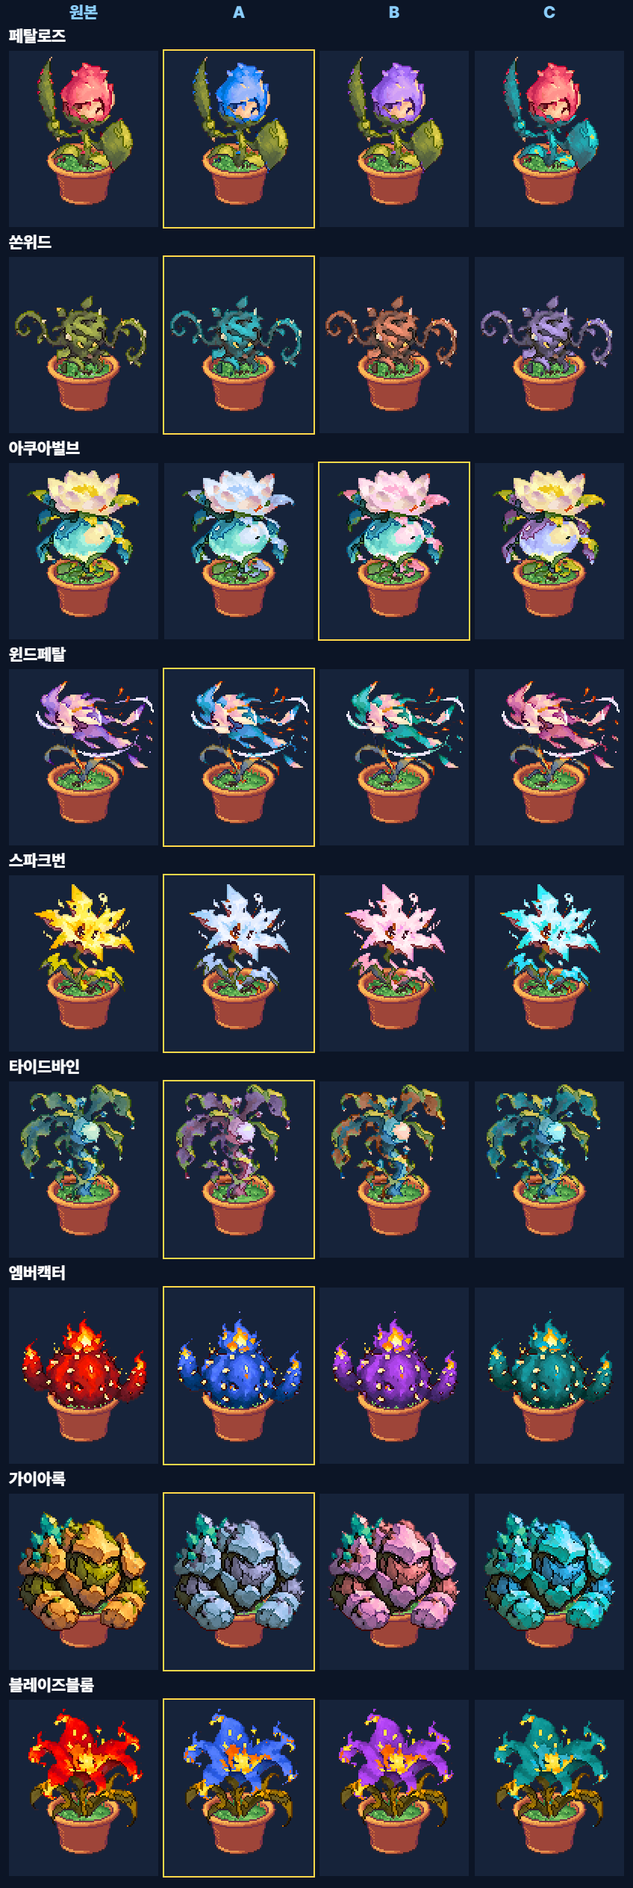
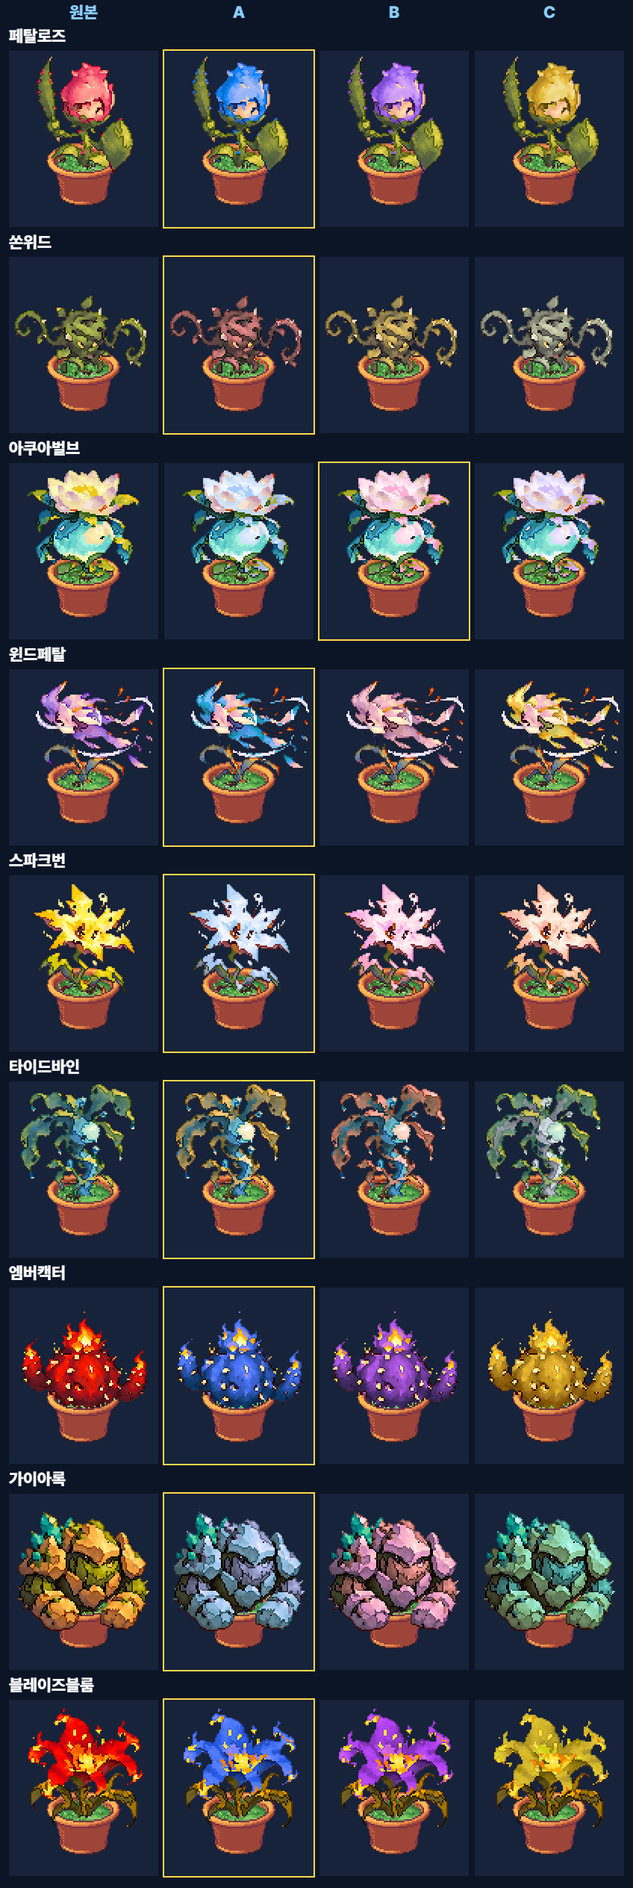
feat: 색 변종 후보를 자연스러운 색으로 다시 — 잎은 자연에 있는 색만, 쨍한 몸 전체 바꿈 줄임
- 잎 · 줄기 = 단풍 금빛 · 호박색 · 붉은 덩굴 · 짙은 초록 · 서리 은빛만(청록 · 보라 잎 금지)
- 꽃 · 갓 · 불꽃 · 옷 · 도자기 · 바위처럼 자연스러운 부분 위주 · 몸 전체는 채도 낮춤
- 색 범위를 한 색 가까이로 모으는 hs 추가 · 서른다섯 종 후보와 추천 다시

diff --git a/v2/src/art/shinyRules.js b/v2/src/art/shinyRules.js
@@ -2,49 +2,49 @@
 //  띠 = { h: [색상 범위°], to: 띠 가운데가 갈 색상°, ck: 채도 배수 } · 흰 몸 = { tint: [색상°, 채도], l: [밝기 범위], c: 최대 채도 } — 뜻은 v2/src/art/shinyColor.js
 //  검토판 = ?scene=shinylab&page=0~4(촬영 99_shiny_0~4) · 생장 단계(어린 · 자람)도 같은 규칙
 export const SHINY_RULES = {
-  flower_grass: { pick: 'A', A: [{ h: [5,35], to: 262, ck: 1 }], B: [{ h: [5,35], to: 305, ck: 1 }], C: [{ h: [72,172], to: 212, ck: 0.9, l: [0.24,0.86] }] },   // 잎 95~135° 57% · 특징 5~35° 36%
-  thorn: { pick: 'A', A: [{ h: [72,172], to: 212, ck: 0.9, l: [0.24,0.86] }], B: [{ h: [72,172], to: 47, ck: 1, l: [0.24,0.86] }], C: [{ h: [72,172], to: 307, ck: 0.85, l: [0.24,0.86] }] },   // 잎 105~125° 66% · 잎 95~115° 8%
-  aqua: { pick: 'B', A: [{ h: [75,115], to: 255, ck: 0.45 }], B: [{ h: [75,115], to: 350, ck: 0.9 }], C: [{ h: [165,255], to: 300, ck: 1.1 }] },   // 특징 75~115° 40% · 잎 125~145° 11% · 손 규칙 C
-  flower_wind: { pick: 'A', A: [{ h: [275,340], to: 235 }], B: [{ h: [285,335], to: 190, ck: 1 }], C: [{ h: [285,335], to: 355, ck: 1 }] },   // 특징 285~335° 40% · 특징 345~25° 14% · 손 규칙 A
-  spark: { pick: 'A', A: [{ h: [75,115], to: 255, ck: 0.45 }], B: [{ h: [75,115], to: 350, ck: 0.9 }], C: [{ h: [75,115], to: 205, ck: 0.9 }] },   // 특징 75~115° 70%
-  vine_water: { pick: 'A', A: [{ h: [140,182], to: 300, ck: 1.4 }, { h: [195,265], to: 340 }], B: [{ h: [140,182], to: 45, ck: 1.6 }], C: [{ h: [140,182], to: 205, ck: 1.6 }] },   // 잎 155~175° 30% · 특징 205~265° 30% · 손 규칙 ABC
-  cactus_fire: { pick: 'A', A: [{ h: [5,45], to: 262, ck: 1 }], B: [{ h: [5,45], to: 305, ck: 1 }], C: [{ h: [0,50], to: 195 }] },   // 특징 5~45° 85% · 손 규칙 C
-  gaia: { pick: 'A', A: [{ h: [35,115], to: 255, ck: 0.45 }], B: [{ h: [35,115], to: 350, ck: 0.9 }], C: [{ h: [35,115], to: 205, ck: 0.9 }] },   // 특징 35~115° 90%
-  flower_fire: { pick: 'A', A: [{ h: [15,35], to: 262, ck: 1 }], B: [{ h: [15,35], to: 305, ck: 1 }], C: [{ h: [0,60], to: 195 }] },   // 특징 15~35° 54% · 특징 25~105° 44% · 손 규칙 C
-  cactus_wind: { pick: 'A', A: [{ h: [85,125], to: 205, ck: 0.9 }], B: [{ h: [85,125], to: 40, ck: 1 }], C: [{ h: [85,125], to: 300, ck: 0.85 }] },   // 특징 85~125° 51%
-  vine_wind: { pick: 'B', A: [{ h: [295,325], to: 88, ck: 1 }, { tint: [88,0.06], l: [0.5,0.97], c: 0.05 }], B: [{ h: [295,325], to: 190, ck: 1 }, { tint: [190,0.06], l: [0.5,0.97], c: 0.05 }], C: [{ h: [295,325], to: 355, ck: 1 }, { tint: [355,0.06], l: [0.5,0.97], c: 0.05 }] },   // 특징 295~325° 42% · 흰 몸 40%
-  spore_cap: { pick: 'A', A: [{ h: [5,115], to: 300, ck: 0.9 }], B: [{ h: [5,115], to: 235, ck: 0.9 }], C: [{ h: [5,115], to: 355, ck: 1 }] },   // 특징 5~115° 97%
+  flower_grass: { pick: 'A', A: [{ h: [5,35], to: 262, ck: 1 }], B: [{ h: [5,35], to: 305, ck: 1 }], C: [{ h: [0,40], to: 92, dl: 0.1, ck: 0.9 }] },   // 잎 95~135° 57% · 특징 5~35° 36% · 손 규칙 C
+  thorn: { pick: 'A', A: [{ h: [70,175], to: 25, hs: 0.4, l: [0.24,0.9], ck: 0.85, dl: -0.04 }], B: [{ h: [70,175], to: 92, hs: 0.4, l: [0.24,0.9], dl: 0.06, ck: 0.9 }], C: [{ h: [70,175], to: 122, hs: 1, l: [0.24,0.9], ck: 0.35, dl: 0.08 }] },   // 잎 105~125° 66% · 잎 95~115° 8% · 손 규칙 ABC
+  aqua: { pick: 'B', A: [{ h: [75,115], to: 255, ck: 0.45, l: [0.75,1.01] }], B: [{ h: [75,115], to: 350, ck: 0.9, l: [0.75,1.01] }], C: [{ h: [75,115], to: 300, ck: 0.8, l: [0.75,1.01] }] },   // 특징 75~115° 40% · 잎 125~145° 11% · 손 규칙 ABC
+  flower_wind: { pick: 'A', A: [{ h: [275,340], to: 235 }], B: [{ h: [275,340], to: 350, ck: 0.55, dl: 0.08 }], C: [{ h: [275,340], to: 90, dl: 0.17 }] },   // 특징 285~335° 40% · 특징 345~25° 14% · 손 규칙 ABC
+  spark: { pick: 'A', A: [{ h: [75,115], to: 255, ck: 0.45, l: [0.6,1.01] }], B: [{ h: [75,115], to: 350, ck: 0.9, l: [0.6,1.01] }], C: [{ h: [75,115], to: 48, l: [0.6,1.01] }] },   // 특징 75~115° 70% · 손 규칙 ABC
+  vine_water: { pick: 'A', A: [{ h: [95,182], to: 88, hs: 0.3, dl: 0.04 }], B: [{ h: [95,182], to: 40, hs: 0.3 }], C: [{ h: [195,265], to: 250, ck: 0.2, dl: 0.15 }] },   // 잎 155~175° 30% · 특징 205~265° 30% · 손 규칙 ABC
+  cactus_fire: { pick: 'A', A: [{ h: [0,50], to: 262, ck: 0.85 }], B: [{ h: [0,50], to: 305, ck: 0.85 }], C: [{ h: [0,50], to: 80, dl: 0.17 }] },   // 특징 5~45° 85% · 손 규칙 ABC
+  gaia: { pick: 'A', A: [{ h: [35,115], to: 250, ck: 0.45 }], B: [{ h: [35,115], to: 355, ck: 0.7 }], C: [{ h: [35,115], to: 160, ck: 0.6 }] },   // 특징 35~115° 90% · 손 규칙 ABC
+  flower_fire: { pick: 'A', A: [{ h: [5,45], to: 262 }], B: [{ h: [5,45], to: 305 }], C: [{ h: [5,45], to: 92, dl: 0.17 }] },   // 특징 15~35° 54% · 특징 25~105° 44% · 손 규칙 ABC
+  cactus_wind: { pick: 'B', A: [{ h: [70,175], to: 168, hs: 0.4, l: [0.24,0.9], ck: 0.7 }], B: [{ h: [70,175], to: 88, hs: 0.4, l: [0.24,0.9], dl: 0.06 }], C: [{ h: [70,175], to: 330, hs: 0.4, l: [0.24,0.9], ck: 0.55 }] },   // 특징 85~125° 51% · 손 규칙 ABC
+  vine_wind: { pick: 'A', A: [{ h: [295,325], to: 88, ck: 1 }, { tint: [88,0.06], l: [0.5,0.97], c: 0.05 }], B: [{ h: [275,335], to: 250, ck: 0.2, dl: 0.08 }], C: [{ h: [295,325], to: 355, ck: 1 }, { tint: [355,0.06], l: [0.5,0.97], c: 0.05 }] },   // 특징 295~325° 42% · 흰 몸 40% · 손 규칙 B
+  spore_cap: { pick: 'A', A: [{ h: [5,115], to: 300, ck: 0.9 }], B: [{ h: [5,115], to: 240, ck: 0.85 }], C: [{ h: [5,115], to: 20 }] },   // 특징 5~115° 97% · 손 규칙 BC
   frost_bell: { pick: 'A', A: [{ h: [235,265], to: 345, ck: 1 }, { tint: [345,0.06], l: [0.5,0.97], c: 0.05 }], B: [{ h: [235,265], to: 88, ck: 1 }, { tint: [88,0.06], l: [0.5,0.97], c: 0.05 }], C: [{ h: [235,265], to: 150, ck: 1 }, { tint: [150,0.06], l: [0.5,0.97], c: 0.05 }] },   // 특징 235~265° 24% · 특징 255~275° 2% · 흰 몸 72%
-  volt_vine: { pick: 'A', A: [{ h: [145,192], to: 295 }], B: [{ h: [85,140], to: 205, l: [0.68,1.01] }], C: [{ h: [145,192], to: 20, ck: 1.3 }] },   // 특징 155~185° 37% · 특징 85~145° 38% · 손 규칙 ABC
-  stone_cap: { pick: 'A', A: [{ h: [35,115], to: 255, ck: 0.45 }], B: [{ h: [35,115], to: 350, ck: 0.9 }], C: [{ h: [35,115], to: 205, ck: 0.9 }] },   // 특징 35~115° 77%
+  volt_vine: { pick: 'B', A: [{ h: [145,192], to: 48, hs: 0.5 }], B: [{ h: [85,140], to: 205, l: [0.68,1.01] }], C: [{ h: [145,192], to: 20 }] },   // 특징 155~185° 37% · 특징 85~145° 38% · 손 규칙 ABC
+  stone_cap: { pick: 'A', A: [{ h: [35,115], to: 255, ck: 0.45 }], B: [{ h: [35,115], to: 350, ck: 0.9 }], C: [{ h: [35,115], to: 30 }] },   // 특징 35~115° 77% · 손 규칙 C
   jelly_cap: { pick: 'A', A: [{ h: [235,255], to: 345, ck: 1 }, { tint: [345,0.06], l: [0.5,0.97], c: 0.05 }], B: [{ h: [235,255], to: 88, ck: 1 }, { tint: [88,0.06], l: [0.5,0.97], c: 0.05 }], C: [{ h: [235,255], to: 150, ck: 1 }, { tint: [150,0.06], l: [0.5,0.97], c: 0.05 }] },   // 특징 235~255° 16% · 특징 255~285° 25% · 흰 몸 39%
-  fang_trap: { pick: 'A', A: [{ h: [72,172], to: 217, ck: 0.9, l: [0.24,0.86] }], B: [{ h: [72,172], to: 52, ck: 1, l: [0.24,0.86] }], C: [{ h: [72,172], to: 312, ck: 0.85, l: [0.24,0.86] }] },   // 잎 85~135° 77% · 특징 15~35° 12%
-  blade_vine: { pick: 'A', A: [{ h: [15,115], to: 300, ck: 0.9 }], B: [{ h: [15,115], to: 235, ck: 0.9 }], C: [{ h: [15,115], to: 355, ck: 1 }] },   // 특징 15~115° 71%
-  toxi_cactus: { pick: 'A', A: [{ h: [72,172], to: 207, ck: 0.9, l: [0.24,0.86] }], B: [{ h: [72,172], to: 42, ck: 1, l: [0.24,0.86] }], C: [{ h: [72,172], to: 302, ck: 0.85, l: [0.24,0.86] }] },   // 잎 95~145° 46% · 특징 315~335° 8%
+  fang_trap: { pick: 'A', A: [{ h: [70,140], to: 20, hs: 0.5, ck: 0.9 }], B: [{ h: [70,140], to: 340, hs: 0.5, ck: 0.6, dl: -0.03 }], C: [{ h: [70,140], to: 128, hs: 0.5 }] },   // 잎 85~135° 77% · 특징 15~35° 12% · 손 규칙 ABC
+  blade_vine: { pick: 'A', A: [{ h: [10,120], to: 250, ck: 0.8 }], B: [{ h: [10,120], to: 250, ck: 0.15, dl: 0.08 }], C: [{ h: [10,120], to: 300, ck: 0.8 }] },   // 특징 15~115° 71% · 손 규칙 ABC
+  toxi_cactus: { pick: 'A', A: [{ h: [300,345], to: 92, dl: 0.08 }], B: [{ h: [300,345], to: 0, ck: 0.2, dl: 0.15 }], C: [{ h: [80,160], to: 168, hs: 0.5, ck: 0.7 }] },   // 잎 95~145° 46% · 특징 315~335° 8% · 손 규칙 ABC
   draco_fruit: { pick: 'A', A: [{ h: [195,235], to: 345, ck: 1 }, { tint: [345,0.06], l: [0.5,0.97], c: 0.05 }], B: [{ h: [170,240], to: 290 }, { tint: [290,0.06], l: [0.5,0.97], c: 0.05 }], C: [{ h: [170,240], to: 150 }, { tint: [150,0.05], l: [0.5,0.97], c: 0.05 }] },   // 특징 195~235° 36% · 특징 175~195° 9% · 흰 몸 47% · 손 규칙 BC
   ember_cap: { pick: 'A', A: [{ h: [15,55], to: 262, ck: 1 }], B: [{ h: [15,55], to: 305, ck: 1 }], C: [{ h: [15,55], to: 88, ck: 1 }] },   // 특징 15~55° 57% · 특징 45~115° 41%
   drake_cactus: { pick: 'A', A: [{ h: [15,55], to: 262, ck: 1 }], B: [{ h: [15,55], to: 305, ck: 1 }], C: [{ h: [5,60], to: 160 }] },   // 특징 15~55° 80% · 손 규칙 C
   gat_cap: { pick: 'A', A: [{ tint: [25,0.12], l: [0.24,0.52], c: 0.05 }], B: [{ tint: [258,0.12], l: [0.24,0.52], c: 0.05 }], C: [{ tint: [305,0.12], l: [0.24,0.52], c: 0.05 }] },   // 특징 45~95° 26% · 잎 85~125° 12% · 손 규칙 ABC
-  mask_vine: { pick: 'A', A: [{ h: [55,105], to: 255, ck: 0.45 }], B: [{ h: [55,105], to: 350, ck: 0.9 }], C: [{ h: [55,105], to: 205, ck: 0.9 }] },   // 특징 55~105° 79%
-  drum_cactus: { pick: 'A', A: [{ h: [55,115], to: 255, ck: 0.45 }], B: [{ h: [55,115], to: 350, ck: 0.9 }], C: [{ h: [72,172], to: 192, ck: 0.9, l: [0.24,0.86] }] },   // 특징 55~115° 41% · 잎 115~155° 24%
+  mask_vine: { pick: 'B', A: [{ h: [50,110], to: 80, ck: 0.25, dl: -0.06 }], B: [{ h: [50,110], to: 25, ck: 0.9 }], C: [{ h: [50,110], to: 92, dl: 0.06 }] },   // 특징 55~105° 79% · 손 규칙 ABC
+  drum_cactus: { pick: 'A', A: [{ h: [55,115], to: 25, l: [0.55,1.01] }], B: [{ h: [55,115], to: 250, ck: 0.2, dl: 0.1, l: [0.55,1.01] }], C: [{ h: [55,115], to: 205, ck: 0.8, l: [0.55,1.01] }] },   // 특징 55~115° 41% · 잎 115~155° 24% · 손 규칙 ABC
   lantern_vine: { pick: 'A', A: [{ h: [255,275], to: 345, ck: 1 }, { tint: [345,0.06], l: [0.5,0.97], c: 0.05 }], B: [{ h: [255,275], to: 88, ck: 1 }, { tint: [88,0.06], l: [0.5,0.97], c: 0.05 }], C: [{ h: [255,275], to: 150, ck: 1 }, { tint: [150,0.06], l: [0.5,0.97], c: 0.05 }] },   // 특징 255~275° 42% · 특징 5~35° 12% · 흰 몸 38%
-  jar_cactus: { pick: 'B', A: [{ h: [150,230], to: 25, ck: 1.7 }], B: [{ h: [150,230], to: 220, ck: 0.25, dl: 0.25 }], C: [{ h: [150,230], to: 300, ck: 1.6 }] },   // 특징 35~65° 17% · 특징 195~235° 26% · 손 규칙 ABC
-  goblin_cap: { pick: 'A', A: [{ h: [25,105], to: 300, ck: 0.9 }], B: [{ h: [25,105], to: 235, ck: 0.9 }], C: [{ h: [25,105], to: 355, ck: 1 }] },   // 특징 25~105° 97%
+  jar_cactus: { pick: 'B', A: [{ h: [150,230], to: 25, ck: 1.4 }], B: [{ h: [150,230], to: 220, ck: 0.25, dl: 0.25 }], C: [{ h: [150,230], to: 300, ck: 1.3 }] },   // 특징 35~65° 17% · 특징 195~235° 26% · 손 규칙 ABC
+  goblin_cap: { pick: 'B', A: [{ h: [25,105], to: 300, ck: 0.9 }], B: [{ h: [25,105], to: 25 }], C: [{ h: [25,105], to: 65, ck: 0.25, dl: 0.08 }] },   // 특징 25~105° 97% · 손 규칙 BC
   crown_cap: { pick: 'A', A: [{ h: [255,295], to: 88, ck: 1 }, { tint: [88,0.06], l: [0.5,0.97], c: 0.05 }], B: [{ h: [255,295], to: 190, ck: 1 }, { tint: [190,0.06], l: [0.5,0.97], c: 0.05 }], C: [{ h: [255,295], to: 355, ck: 1 }, { tint: [355,0.06], l: [0.5,0.97], c: 0.05 }] },   // 특징 255~295° 39% · 흰 몸 58%
   frost_drake: { pick: 'A', A: [{ h: [195,265], to: 345, ck: 1 }], B: [{ h: [165,260], to: 300 }], C: [{ h: [195,265], to: 150, ck: 1 }] },   // 특징 195~265° 44% · 특징 165~185° 9% · 손 규칙 B
-  gladi_cactus: { pick: 'A', A: [{ h: [25,75], to: 300, ck: 0.9 }], B: [{ h: [25,75], to: 235, ck: 0.9 }], C: [{ h: [72,172], to: 232, ck: 0.9, l: [0.24,0.86] }] },   // 잎 85~105° 35% · 특징 25~75° 55%
-  jangseung_cactus: { pick: 'A', A: [{ h: [35,95], to: 300, ck: 0.9 }], B: [{ h: [35,95], to: 235, ck: 0.9 }], C: [{ h: [72,172], to: 212, ck: 0.9, l: [0.24,0.86] }] },   // 잎 105~125° 37% · 특징 35~95° 48%
+  gladi_cactus: { pick: 'A', A: [{ h: [25,75], to: 300, ck: 0.9 }], B: [{ h: [25,75], to: 235, ck: 0.9 }], C: [{ h: [25,75], to: 92, dl: 0.08 }] },   // 잎 85~105° 35% · 특징 25~75° 55% · 손 규칙 C
+  jangseung_cactus: { pick: 'B', A: [{ h: [35,95], to: 65, ck: 0.25, dl: -0.08 }], B: [{ h: [35,95], to: 25 }], C: [{ h: [35,95], to: 65, ck: 0.25, dl: 0.12 }] },   // 잎 105~125° 37% · 특징 35~95° 48% · 손 규칙 ABC
   astro_cap: { pick: 'A', A: [{ h: [245,275], to: 345, ck: 1 }, { tint: [345,0.06], l: [0.5,0.97], c: 0.05 }], B: [{ h: [245,275], to: 88, ck: 1 }, { tint: [88,0.06], l: [0.5,0.97], c: 0.05 }], C: [{ h: [245,275], to: 150, ck: 1 }, { tint: [150,0.06], l: [0.5,0.97], c: 0.05 }] },   // 특징 245~275° 23% · 흰 몸 70%
   viking_cap: { pick: 'B', A: [{ h: [245,275], to: 345, ck: 1 }, { tint: [345,0.06], l: [0.5,0.97], c: 0.05 }], B: [{ h: [245,275], to: 88, ck: 1 }, { tint: [88,0.06], l: [0.5,0.97], c: 0.05 }], C: [{ h: [245,275], to: 150, ck: 1 }, { tint: [150,0.06], l: [0.5,0.97], c: 0.05 }] },   // 특징 245~275° 12% · 흰 몸 72%
-  hyunmu_cap: { pick: 'A', A: [{ h: [205,245], to: 155, ck: 1.7 }], B: [{ h: [205,245], to: 300, ck: 1.7 }], C: [{ h: [205,245], to: 25, ck: 1.7 }] },   // 특징 215~245° 35% · 특징 55~85° 11% · 손 규칙 ABC
-  gumiho_bloom: { pick: 'A', A: [{ h: [15,95], to: 300, ck: 0.9 }], B: [{ h: [15,95], to: 235, ck: 0.9 }], C: [{ h: [15,95], to: 355, ck: 1 }] },   // 특징 15~95° 91%
+  hyunmu_cap: { pick: 'A', A: [{ h: [205,245], to: 155, ck: 1.4 }], B: [{ h: [205,245], to: 300, ck: 1.4 }], C: [{ h: [205,245], to: 25, ck: 1.4 }] },   // 특징 215~245° 35% · 특징 55~85° 11% · 손 규칙 ABC
+  gumiho_bloom: { pick: 'A', A: [{ h: [15,95], to: 55, ck: 0.12, dl: 0.15 }], B: [{ h: [15,95], to: 85, dl: 0.05, ck: 0.9 }], C: [{ h: [15,95], to: 300, ck: 0.8 }] },   // 특징 15~95° 91% · 손 규칙 ABC
   wizard_bell: { pick: 'A', A: [{ h: [272,335], to: 192 }], B: [{ h: [272,335], to: 352 }], C: [{ h: [272,335], to: 245 }] },   // 특징 65~95° 26% · 특징 275~335° 41% · 손 규칙 ABC
-  ninja_vine: { pick: 'A', A: [{ h: [5,45], to: 262, ck: 1 }], B: [{ h: [5,45], to: 305, ck: 1 }], C: [{ h: [72,172], to: 202, ck: 0.9, l: [0.24,0.86] }] },   // 잎 105~145° 47% · 특징 5~45° 19%
-  diver_vine: { pick: 'A', A: [{ h: [152,198], to: 350, ck: 1.5 }], B: [{ h: [152,198], to: 255, ck: 1.3 }], C: [{ h: [152,198], to: 300, ck: 1.3 }] },   // 잎 135~195° 54% · 잎 95~135° 14% · 손 규칙 ABC
-  pirate_cactus: { pick: 'A', A: [{ h: [222,262], to: 25, ck: 1.3 }], B: [{ h: [222,262], to: 300 }], C: [{ h: [72,172], to: 212, ck: 0.9, l: [0.24,0.86] }] },   // 잎 85~145° 54% · 특징 215~265° 21% · 손 규칙 AB
-  ranger_vine: { pick: 'A', A: [{ h: [72,172], to: 207, ck: 0.9, l: [0.24,0.86] }], B: [{ h: [72,172], to: 42, ck: 1, l: [0.24,0.86] }], C: [{ h: [72,172], to: 302, ck: 0.85, l: [0.24,0.86] }] },   // 잎 95~145° 89%
+  ninja_vine: { pick: 'C', A: [{ h: [5,45], to: 262, ck: 1 }], B: [{ h: [5,45], to: 305, ck: 1 }], C: [{ h: [5,45], to: 25, ck: 0.1, dl: -0.12 }] },   // 잎 105~145° 47% · 특징 5~45° 19% · 손 규칙 C
+  diver_vine: { pick: 'A', A: [{ h: [152,198], to: 350, ck: 1.2 }], B: [{ h: [152,198], to: 255, ck: 1.1 }], C: [{ h: [152,198], to: 300, ck: 1.1 }] },   // 잎 135~195° 54% · 잎 95~135° 14% · 손 규칙 ABC
+  pirate_cactus: { pick: 'A', A: [{ h: [222,262], to: 25, ck: 1.2 }], B: [{ h: [222,262], to: 300 }], C: [{ h: [222,262], to: 242, ck: 0.15, dl: -0.08 }] },   // 잎 85~145° 54% · 특징 215~265° 21% · 손 규칙 ABC
+  ranger_vine: { pick: 'A', A: [{ h: [70,175], to: 88, hs: 0.4, l: [0.24,0.9], dl: 0.04 }], B: [{ h: [70,175], to: 35, hs: 0.4, l: [0.24,0.9] }], C: [{ h: [70,175], to: 150, hs: 0.4, l: [0.24,0.9], dl: -0.06, ck: 0.9 }] },   // 잎 95~145° 89% · 손 규칙 ABC
   miner_cap: { pick: 'A', A: [{ h: [45,85], to: 300, ck: 0.9 }], B: [{ h: [45,85], to: 235, ck: 0.9 }], C: [{ h: [45,85], to: 355, ck: 1 }] },   // 특징 45~85° 82% · 특징 25~45° 11%
-  volcano_cap: { pick: 'A', A: [{ h: [25,65], to: 300, ck: 0.9 }], B: [{ h: [25,65], to: 235, ck: 0.9 }], C: [{ h: [25,65], to: 355, ck: 1 }] },   // 특징 25~65° 83%
+  volcano_cap: { pick: 'B', A: [{ h: [25,65], to: 300, ck: 0.9 }], B: [{ h: [20,70], to: 240 }], C: [{ h: [20,70], to: 45, ck: 0.2, dl: -0.08 }] },   // 특징 25~65° 83% · 손 규칙 BC
   dandel_aero: { pick: 'A', A: [{ h: [65,125], to: 255, ck: 0.45 }, { tint: [255,0.06], l: [0.5,0.97], c: 0.05 }], B: [{ h: [65,125], to: 350, ck: 0.9 }, { tint: [350,0.06], l: [0.5,0.97], c: 0.05 }], C: [{ h: [65,125], to: 205, ck: 0.9 }, { tint: [205,0.06], l: [0.5,0.97], c: 0.05 }] },   // 특징 65~125° 57% · 흰 몸 36%
   snow_ballet: { pick: 'A', A: [{ h: [265,295], to: 88, ck: 1 }, { tint: [88,0.06], l: [0.5,0.97], c: 0.05 }], B: [{ h: [265,295], to: 190, ck: 1 }, { tint: [190,0.06], l: [0.5,0.97], c: 0.05 }], C: [{ h: [265,295], to: 355, ck: 1 }, { tint: [355,0.06], l: [0.5,0.97], c: 0.05 }] },   // 특징 265~295° 52% · 흰 몸 46%
 };

diff --git a/v2/src/art/shinyColor.js b/v2/src/art/shinyColor.js
@@ -1,7 +1,7 @@
 // 색 변종(이로치) 색 바꾸기 — 게임(art/sprites.js)과 검토 도구(tools/pixel/big/shiny.mjs)가 같이 쓰는 순수 함수(2026-10-22 사용자 "색 변종 그림부터 해줘",
 //  결정 2026-10-18 "그림 색을 진짜로 바꿈 — 자연스럽고 이쁘게 · 포켓몬 이로치 참고" · 주된 몸 색만 바꾸고 눈 · 화분은 그대로 · 종마다 보여 드리고 고름)
 //  색은 OKLCH(사람 눈에 고른 밝기 · 채도 · 색상)로 다룸: 규칙의 색 무리(색상 범위)에 드는 칸만 색상을 돌리고 밝기 · 명암 차이는 그대로 → 그림 결이 안 깨짐
-//  규칙 = 띠 목록 [{ h: [h0, h1], to: 목표 색상(띠 가운데가 여기로), ck: 채도 배수, dl: 밝기 더하기, l: [최소, 최대], c: 최소 채도 }
+//  규칙 = 띠 목록 [{ h: [h0, h1], to: 목표 색상(띠 가운데가 여기로), ck: 채도 배수, dl: 밝기 더하기, hs: 색상 퍼짐 배수(기본 1), l: [최소, 최대], c: 최소 채도 }
 //                  | { tint: [색상, 채도], l: [최소, 최대], c: 최대 채도 } (흰 · 회색 몸에 색을 입힘)]
 const lin = v => { v /= 255; return v <= 0.04045 ? v / 12.92 : ((v + 0.055) / 1.055) ** 2.4; };
 const gam = v => { const u = v <= 0.0031308 ? 12.92 * v : 1.055 * Math.max(0, v) ** (1 / 2.4) - 0.055; return Math.max(0, Math.min(255, Math.round(u * 255))); };
@@ -38,8 +38,8 @@ export function shinyColor(r, g, b, rule) {
       return fromLch(L + (t.dl || 0), Math.max(C, t.tint[1] * k), t.tint[0]);
     }
     if (C < (t.c ?? 0.04) || !inHue(H, t.h)) continue;
-    const dh = t.to - midOf(t.h);
-    return fromLch(L + (t.dl || 0), C * (t.ck ?? 1), (H + dh + 360) % 360);
+    const d = ((H - midOf(t.h) + 540) % 360) - 180;   // 띠 가운데에서 떨어진 색상(−180~180)
+    return fromLch(L + (t.dl || 0), C * (t.ck ?? 1), (t.to + d * (t.hs ?? 1) + 720) % 360);   // hs = 색상 퍼짐 배수(0.3 = 띠 안 색을 목표 색 가까이로 모음 — 단풍처럼 고르게)
   }
   return null;
 }

diff --git a/docs/superpowers/specs/2026-10-16-v2-mvp-design.md b/docs/superpowers/specs/2026-10-16-v2-mvp-design.md
@@ -10,7 +10,7 @@
 - **10-22 아침:** 사용자 결정 = 카드는 끼운 식물에 귀속(CHANGELOG 191 — 가져오기 뺌, 일반 식물도 패시브 보관 셋, 보관에서 버리기 = 팔 값). 사용자 ‘올릴 때 버그나 데이터 손실이 없도록’ → 올리기 전 안전 점검(192 — `tools/test/prodcheck.mjs`로 친구 서버 저장 백업 + 새 코드로 계정마다 미리 돌려 보기 = 문제 없음, `SAVE_VER` 2로 올린 뒤 원본 자동 보관, 되돌리기 판 `f4b9fc9b`). **사용자 ‘안전 점검대로 친구 서버에 올려’ → 올림(CHANGELOG 193, 판 `4c2dabdd`).**
 - **10-22 올린 뒤(오후에 함께 올림 — CHANGELOG 201):** 바람 다시(CHANGELOG 194 초승달 줄기 · 195 언덕 타기 + 롤러코스터 고리 — 사용자 ‘너무 일자로 빙빙돌아’ → ‘좀더 꿀렁하게 웨이브를 타는 느낌 · 롤로코스터처럼 한바퀴’) · 배너 = 프로필 홀로그램 창 디자인 열둘(196 — 사용자 정정 ‘아이콘의 테두리가 아니야. 홀로그램창의 디자인을 배너라고 말한거야’, 188의 색 띠 · 아이콘 테 방식은 버림) · 종자 가방 = 카드 · 정렬(197). 시험 전부 통과.
 - **10-22 낮(오후에 함께 올림):** 종자 · 상점 물건 그림 = 코덱스 디자인(종자는 식물마다 다른 마흔다섯 · 속성 대신 그림 일곱 · 물건 아홉) · 별에 따른 종자 차이(빛 효과 + 값 별 하나 +25%) · 종자 가방 = 단추 없는 카드 · 누르면 펼침 · 꾹 고르기 여러 개 팔기(`sellSeeds`) · 특별 표시는 그림을 가리지 않게(CHANGELOG 198). 사용자가 ‘그 외 대충 그린 아이콘 중 바꿀 것 추천’ 요청 → 추천 일곱 묶음 → ‘전부해봐’ → 하단 탭 · 홈 단추 · 돈 · 보석 · 속성 · 종류 · 능력치 · 전투 상태 열여덟 · 레벨업 상자(뚜껑이 들리는 코덱스 상자) · 탐사 행성 열하나 + 물건 그림 재활용(물 · 비료 단추 · 결과 보상 · 연료 · 카드 꾸러미)을 코덱스 디자인 도트로(CHANGELOG 199 — 11칸으로 줄이면 뭉개지는 여섯은 1배 자리만 손그림 유지). 이어서 사용자 ‘아이콘 비슷한게 있는데 … 엑셀로 작업중인 변경될 예정인걸 기준으로’ → 효과 아이콘을 엑셀 v10 효과 하나에 하나로 다시(CHANGELOG 200 · 짝 표 `specs/2026-10-22-v2-effect-icons.md` — 능력치 강화 · 약화 = 능력치 아이콘 + 화살표, 이름은 엑셀 적용 때 바꿈).
-- **10-22 늦은 오후(아직 안 올림):** 사용자 ‘다음 작업 뭐 있을까 스킬 구상 말고’ → 남은 일 목록(색 변종 · 3:3 햇빛 · 접목 카드 · 눈 다시 · 얼굴 사진 · 영양제 · 공지 팝업 · 순위표 등)을 드림 → ‘색 변종 그림부터’ → 몸 색이 진짜로 바뀜(CHANGELOG 202 — 종마다 후보 A · B · C, 클로드 추천을 넣어 둠). 사용자가 검토판(`tools/pixel/big/out/shiny/board_1~5.png`)에서 종마다 고르면 `tools/pixel/big/shiny.mjs PICK`만 바꿈. 확률(1/64 → 1/500쯤)은 확인 전.
+- **10-22 늦은 오후(아직 안 올림):** 사용자 ‘다음 작업 뭐 있을까 스킬 구상 말고’ → 남은 일 목록(색 변종 · 3:3 햇빛 · 접목 카드 · 눈 다시 · 얼굴 사진 · 영양제 · 공지 팝업 · 순위표 등)을 드림 → ‘색 변종 그림부터’ → 몸 색이 진짜로 바뀜(CHANGELOG 202 — 종마다 후보 A · B · C, 클로드 추천을 넣어 둠). 사용자가 검토판(`tools/pixel/big/out/shiny/board_1~5.png`)에서 종마다 고르면 `tools/pixel/big/shiny.mjs PICK`만 바꿈. 확률(1/64 → 1/500쯤)은 확인 전. 이어서 사용자 ‘페탈로즈 c의 풀색이 너무 징그러워 · 자연스러운 부분에 자연스럽게 · 쨍하게 전체색이 바뀐게 어색해’ → 잎은 자연에 있는 색만 · 꽃 · 갓 · 옷처럼 자연스러운 부분 위주 · 채도 낮춤으로 다시(CHANGELOG 203).
 - **다음:** 10-22 오후 사용자 ‘ㄱㄱ’로 위 묶음(194~200)을 친구 서버에 올림(CHANGELOG 201 — 판 `36180eb2` · 되돌리기 `4c2dabdd` · 저장 판 번호 3). 그다음 친구들이 새 판으로 놀아 본 반응 · 플레이 기록(`node server/report.mjs --url https://pulloseum.getchat.workers.dev`)으로 랭크 속도 · 카드 귀속 · 경제를 확인 → 아래 이전 맥락의 종 핑퐁(프로스트벨 초안 검토 → 14번 볼트바인).
 - **미결(검토):** 변이 패시브도 강화할지 · 랭크 속도(어림 풀로세움까지 350판) · 배너 열둘의 해금 레벨(오로라 3 · 별빛 5 · 성운 8 · 잎맥 10 · 물결 15 · 회로 20 · 황금 25 · 풀로세움 30) · 바람 모양(검토 영상 `tools/pixel/big/out/conv/<키>_idle.mp4`).
 

diff --git a/docs/CHANGELOG.md b/docs/CHANGELOG.md
@@ -2,6 +2,14 @@
 
 > CLAUDE.md에서 분리한 전체 개발 로그. 최신 작업이 맨 위. 과거 맥락이 필요할 때만 읽으세요.
 
+### 2026-10-22 (203) — 색 변종 후보를 자연스러운 색으로 다시(잎은 자연에 있는 색만 · 쨍한 몸 전체 바꿈 줄임)
+
+- 사용자 ‘페탈로즈 c의 풀색이 너무 징그러워. 지금 보면 아무색이나 넣은 거 같은데 자연스러운 부분에 자연스럽게 넣어줄 수 있나? 자연스러운 것도 많은데 쨍하게 전체색이 바뀐게 어색해’.
+- **원칙(`tools/pixel/big/shiny.mjs HAND` 머리글):** ① 잎 · 줄기는 자연에 있는 색만 — 단풍 금빛 · 호박색 · 붉은 덩굴 · 짙은 숲 초록 · 서리 낀 은빛(청록 · 보라 잎 금지) ② 바꾸는 곳 = 꽃 · 갓 · 불꽃 · 옷 · 도자기 · 바위처럼 색이 달라도 자연스러운 부분 ③ 몸 전체를 바꾸면 채도를 낮춤(쨍한 색 금지).
+- 색 범위를 한 색 가까이로 모으는 `hs`(색상 퍼짐 배수)를 더함(`art/shinyColor.js`) — 누른 잎부터 청록 잎까지 단풍처럼 고르게.
+- 서른다섯 종 후보를 다시 짬: 페탈로즈 C = 노란 장미(잎 그대로) · 쏜위드 = 붉은 덩굴 · 볏짚 금빛 · 서리 은빛 · 아쿠아벌브 = 흰 · 분홍 · 보라 연꽃(잎 · 물방울 그대로) · 타이드바인 = 단풍 금빛 · 호박색 잎 · 진주빛 물방울 · 팽트랩 = 온통 붉은 파리지옥 · 구미호블룸 = 흰 여우 · 금빛 여우 · 장승캑터 = 흑단 · 붉게 칠한 · 흰 자작나무 · 닌자바인 C = 검은 천 · 볼케이노캡 = 푸른 용암 · 현무암 등. 추천(`PICK`)도 가장 자연스러운 쪽으로(B: 아쿠아벌브 · 게일캑터 · 볼트바인 · 탈바인 · 동이캑터 · 도깨비캡 · 장승캑터 · 바이킹캡 · 볼케이노캡, C: 닌자바인).
+- 검토판 다시 `tools/pixel/big/out/shiny/board_1~5.png` · 시험 `tools/test/shiny.mjs` 11 통과.
+
 ### 2026-10-22 (202) — 색 변종 그림: 몸 색이 진짜로 바뀜(종마다 후보 셋 · 추천을 넣어 둠)
 
 - 사용자 ‘색 변종 그림부터 해줘’(요청 대기열 20 — 2026-10-18 결정: 그림 색을 진짜로 바꿈 ‘자연스럽고 이쁘게 · 포켓몬 이로치 참고’ · 주된 몸 색만 바꾸고 눈 · 화분은 그대로 · 종마다 보여 드리고 고름). 전엔 이름 글자만 금빛이었음.
